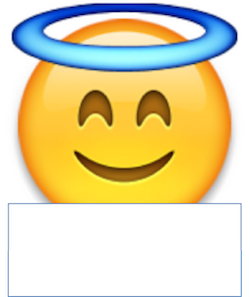
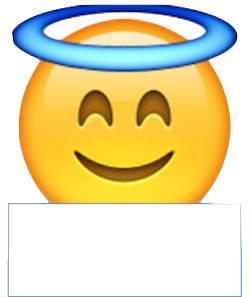
added in pictures for winning

diff --git a/src/StartMenu.java b/src/StartMenu.java
@@ -12,20 +12,13 @@ import javafx.scene.paint.Color;
 
 
 class StartMenu {
-    public static final String TITLE = "Dodge Game";
     private static final int BUTTON_WIDTH = 148;
     private static final int BUTTON_HEIGHT = 20;
     private Group root;
     private Scene myScene;
-    private GameController myGC; //TODO: COME BACK AND FIX THIS STATIC THING
+    private GameController myGC;
     public StartMenu(GameController gc){
     	myGC = gc;
-    }
-    /**
-     * Returns name of the game.
-     */
-    public String getTitle () {
-        return TITLE;
     }
 
     /**
@@ -42,9 +35,9 @@ class StartMenu {
         Image logoicon = new Image(getClass().getClassLoader().getResourceAsStream("cavedodgelogo2.png"));
         ImageView myLogo = new ImageView(logoicon);
         
-        Button btn1 = makeButton("Start Level 1", GameController.DESCRIP,1);
-        Button btn2 = makeButton("Start Level 2", GameController.DESCRIP,2);
-        Button btn3 = makeButton("Customize Character", GameController.CHOOSE_CHAR,-1);
+        Button btn1 = makeSizedButton("Start Level 1", GameController.DESCRIP,1);
+        Button btn2 = makeSizedButton("Start Level 2", GameController.DESCRIP,2);
+        Button btn3 = makeSizedButton("Customize Character", GameController.CHOOSE_CHAR,-1);
 
         putItemsInGrid(myLogo, btn1, btn2, btn3);
         
@@ -66,7 +59,8 @@ class StartMenu {
         myScene.setRoot(gridpane);
         gridpane.setStyle("-fx-background-image: url('../images/caveBackGround3.jpg')");
 	}
-    public Button makeButton(String text, String type, int level){
+	//not using ui controller for this bc this method is unique to the start menu class
+    public Button makeSizedButton(String text, String type, int level){
     	Button btn = new Button(text);
 		btn.setOnAction(new EventHandler<ActionEvent>() { 
         	public void handle(ActionEvent event){
@@ -76,13 +70,4 @@ class StartMenu {
         btn.setPrefSize(BUTTON_WIDTH, BUTTON_HEIGHT);
 		return btn;
 	}
-    public void openDescripScreen(int level){
-    	myGC.switchScene(GameController.DESCRIP,level);
-    }
-    public void customizeCharacter(){
-    	myGC.switchScene(GameController.CHOOSE_CHAR,-1);
-    }
-    public void startGame(int level){
-    	myGC.switchScene(GameController.GAME,level);
-    }
 }

diff --git a/src/GameController.java b/src/GameController.java
@@ -4,7 +4,6 @@ import javafx.stage.Stage;
 import javafx.util.Duration;
 
 public class GameController {
-    public static final String TITLE = "Dodge Game";
     public static final int KEY_INPUT_SPEED = 15;
     public static final int FRAMES_PER_SECOND = 90; //60
     private static final int MILLISECOND_DELAY = 1000 / FRAMES_PER_SECOND;
@@ -12,8 +11,7 @@ public class GameController {
     public static final double BLOCK_FRAMES_PER_SECOND = 2.5; //60
     private static final double BLOCK_MILLISECOND_DELAY = 1000 / BLOCK_FRAMES_PER_SECOND;
     private static final double BLOCK_SECOND_DELAY = 1.0 / BLOCK_FRAMES_PER_SECOND;
-    private static Stage s;
-   
+    
     public static final String GAME = "game";
     public static final String START = "start";
     public static final String NEXT_LEVEL = "next level";
@@ -32,7 +30,8 @@ public class GameController {
     private Timeline animationBlock;
     private KeyFrame frame;
     private KeyFrame frameBlock;
-	
+    private Stage s;
+
 	public GameController(Stage stage){
 		s = stage;
 	}
@@ -49,11 +48,11 @@ public class GameController {
 		        s.setScene(myStartMenu.init(Main.WIDTH, Main.HEIGHT));
 				break;
 			case NEXT_LEVEL:
-				myNextLevelMenu = new NextLevelMenu(this, new UIController(this),level);	
+				myNextLevelMenu = new NextLevelMenu(new UIController(this),level);	
 		        s.setScene(myNextLevelMenu.init(Main.WIDTH, Main.HEIGHT));
 				break;
 			case GAME_OVER:
-				myGameOverMenu = new GameOverMenu(this, new UIController(this),myGame.getScore());
+				myGameOverMenu = new GameOverMenu(new UIController(this),myGame.getScore());
 		        s.setScene(myGameOverMenu.init(Main.WIDTH, Main.HEIGHT));
 				break;
 			case DESCRIP:

diff --git a/src/DodgeGameRunner.java b/src/DodgeGameRunner.java
@@ -9,13 +9,12 @@ import javafx.scene.paint.Color;
  * @author Robert C. Duvall
  */
 class DodgeGameRunner {
-    public static final String TITLE = "Dodge Game";
     public static final int KEY_INPUT_SPEED = 15;
     private int entrywidth = 100;
     private int midpoint = Main.HEIGHT/2;
     private Smiley myCharacter;
     private int level;
-    private static final int[] winningScore = {75,100};//winning scores for each level
+    private static final int[] winningScore = {3,2};//winning scores for each level
     private BlockManager block_manage;
     private StatsDisplay stats;
     private Group root;
@@ -27,12 +26,6 @@ class DodgeGameRunner {
     	level = l;
     	myUI = ui;
     	myGC = gc;
-    }
-    /**
-     * Returns name of the game.
-     */
-    public String getTitle () {
-        return TITLE;
     }
 
     /**
@@ -79,7 +72,7 @@ class DodgeGameRunner {
         block_manage.removeUneededBlocks();
     }
 	private void calculateBlockParameters() {
-		int tempentrywidth = Main.HEIGHT/3 + 10 + (int)(Math.random() * 200);//TODO: CHANGE TO DIVIDE BY 3 
+		int tempentrywidth = Main.HEIGHT/3 + 10 + (int)(Math.random() * 200);
     	int tempmidpoint = Main.HEIGHT/2 + (int)(Math.random() * 100)*(int)Math.pow(-1,(int)(Math.random()*2)); 
     	while(Math.abs((tempmidpoint-tempentrywidth/2)-(midpoint+entrywidth/2))<100||Math.abs((tempmidpoint+tempentrywidth/2)-(midpoint-entrywidth/2))<100){
     		tempmidpoint = Main.HEIGHT/2 + (int)(Math.random() * 100)*(int)Math.pow(-1,(int)(Math.random()*2)); 

diff --git a/src/GameOverMenu.java b/src/GameOverMenu.java
@@ -5,17 +5,14 @@ import javafx.scene.text.Font;
 import javafx.scene.text.Text;
 
 class GameOverMenu {
-    public static final String TITLE = "Game Over!";
     public static final int KEY_INPUT_SPEED = 15;
     private Scene myScene;
     private int score;
     private Group root;
     private UIController myUI;
-    private GameController myGC;
 
-    public GameOverMenu(GameController gc, UIController ui, int finalScoreNum){
+    public GameOverMenu(UIController ui, int finalScoreNum){
     	myUI = ui;
-    	myGC = gc;
     	score = finalScoreNum;
     }
     /**
@@ -27,7 +24,7 @@ class GameOverMenu {
         
         // Create a place to see the shapes
         myScene = new Scene(root, width, height, Color.WHITE);
-        
+        myUI.setCaveBackGround(root);
         //create objects
         myUI.makeImage(root, Main.WIDTH/2-110, Main.HEIGHT/2-160, "HaloEmojiDisplay.png");
         

diff --git a/src/NextLevelMenu.java b/src/NextLevelMenu.java
@@ -11,12 +11,10 @@ public class NextLevelMenu {
 	private Scene myScene;
 	private Group root;
 	private UIController myUI;
-    private GameController myGC;
 
-	public NextLevelMenu(GameController gc, UIController ui, int l){
+	public NextLevelMenu(UIController ui, int l){
 		myUI = ui;
 		level = l;
-		myGC = gc;
 	}
 	public Scene init(int width, int height){
         // Create a scene graph to organize the scene
@@ -26,7 +24,9 @@ public class NextLevelMenu {
         myScene = new Scene(root, width, height, Color.WHITE);
         
       //create objects
-        
+        if(level==HIGHEST_LEVEL){myUI.setEscapeBackGround(root);}
+        else{myUI.setCaveBackGround(root);}
+        	
         myUI.makeImage(root, 270, 30, "WinningDisplay.png");
         
         Text winningText = new Text();

diff --git a/src/UIController.java b/src/UIController.java
@@ -78,4 +78,11 @@ public class UIController {
         caveImage.setY(0);
         root.getChildren().add(caveImage);
 	}
+	public void setEscapeBackGround(Group root){
+		Image caveicon = new Image("../images/meadow2.jpg");
+        ImageView caveImage = new ImageView(caveicon);
+        caveImage.setX(0);
+        caveImage.setY(0);
+        root.getChildren().add(caveImage);
+	}
 }
